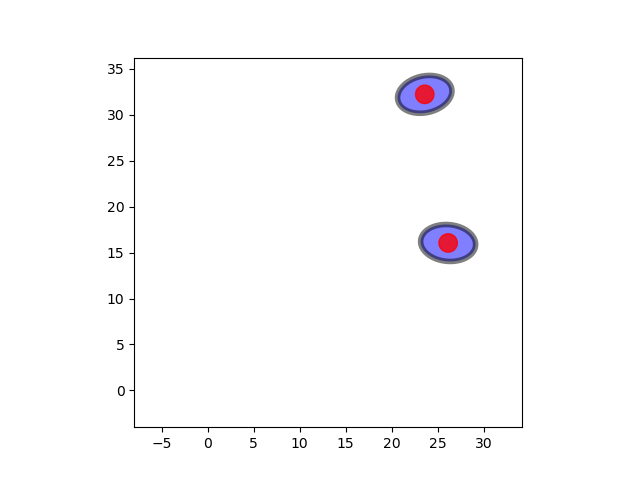
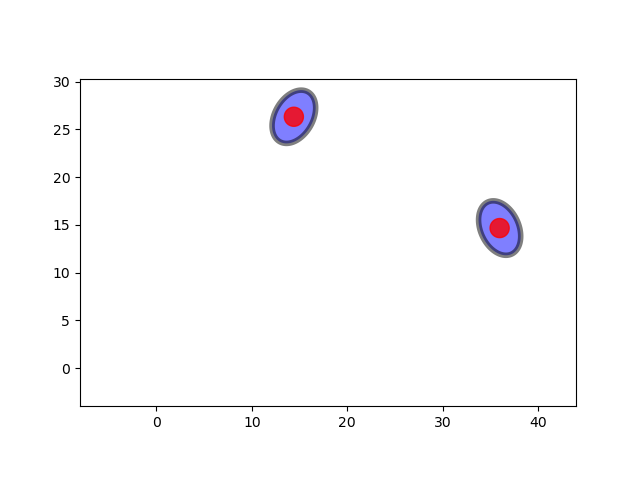
Tada

diff --git a/Ellipse_Multi_Cell_Model_Python/energy.py b/Ellipse_Multi_Cell_Model_Python/energy.py
@@ -28,18 +28,22 @@ def overlap_energy(cells, cparams, num, Ovlaps,
     if np.any(Ovlaps[num] != -1e8):
 
         ell_i_out = create_ellipse((cells[3*num],cells[3*num+1]), (
-                        cparams[4*num],cparams[4*num+1]), cparams[4*num+2])
+                        cparams[4*num],cparams[4*num+1]),
+                        cparams[4*num+2]+cells[3*num+2])
         ell_i_in = create_ellipse((cells[3*num],cells[3*num+1]), (0.5*
-                        cparams[4*num],0.5*cparams[4*num+1]), cparams[4*num+2])
+                        cparams[4*num],0.5*cparams[4*num+1]),
+                        cparams[4*num+2]+cells[3*num+2])
 
         ind = np.arange(Ovlaps.shape[0])[Ovlaps[num] == 1]
 
         #for each cell, find the overlap energy
         for j in ind:
             ell_j_out = create_ellipse((cells[3*j],cells[3*j+1]), (
-                            cparams[4*j],cparams[4*j+1]), cparams[4*j+2])
+                            cparams[4*j],cparams[4*j+1]),
+                            cparams[4*j+2]+cells[3*j+2])
             ell_j_in = create_ellipse((cells[3*j],cells[3*j+1]), (0.5*
-                            cparams[4*j],0.5*cparams[4*j+1]), cparams[4*j+2])
+                            cparams[4*j],0.5*cparams[4*j+1]),
+                            cparams[4*j+2]+cells[3*j+2])
 
             #find the overlap area
             oval_energy -= 0.5*k_out_out*(ell_i_out.intersection(ell_j_out).area)

diff --git a/Ellipse_Multi_Cell_Model_Python/main.py b/Ellipse_Multi_Cell_Model_Python/main.py
@@ -13,7 +13,7 @@ Nadh = 32
 k_plus = 0.4
 dt = 1
 lamda = 0.4
-tau = 20
+tau = 30
 T_S = 10
 k_s = 0.1
 k_out_out = 0.02
